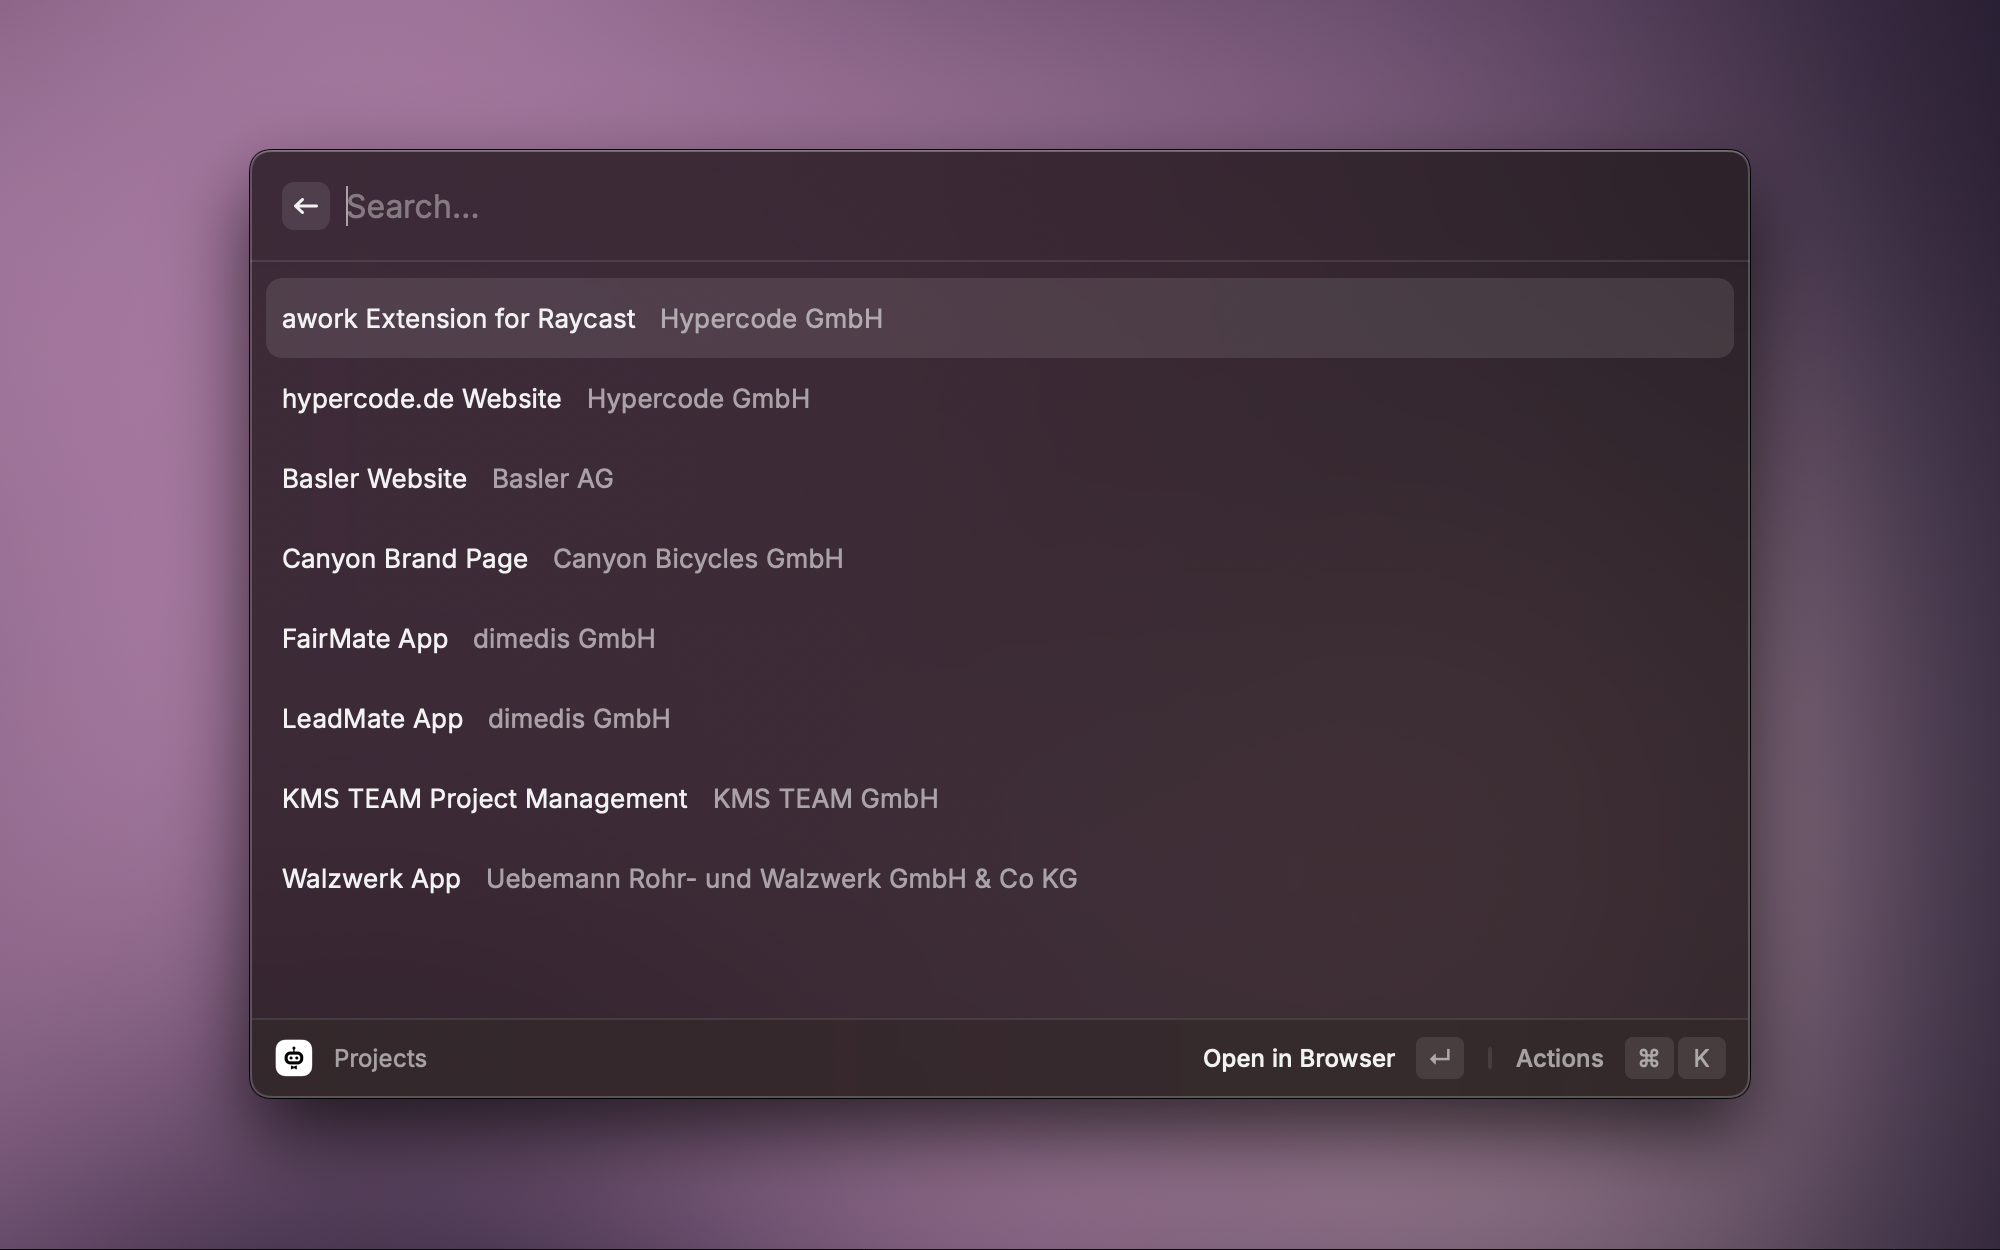
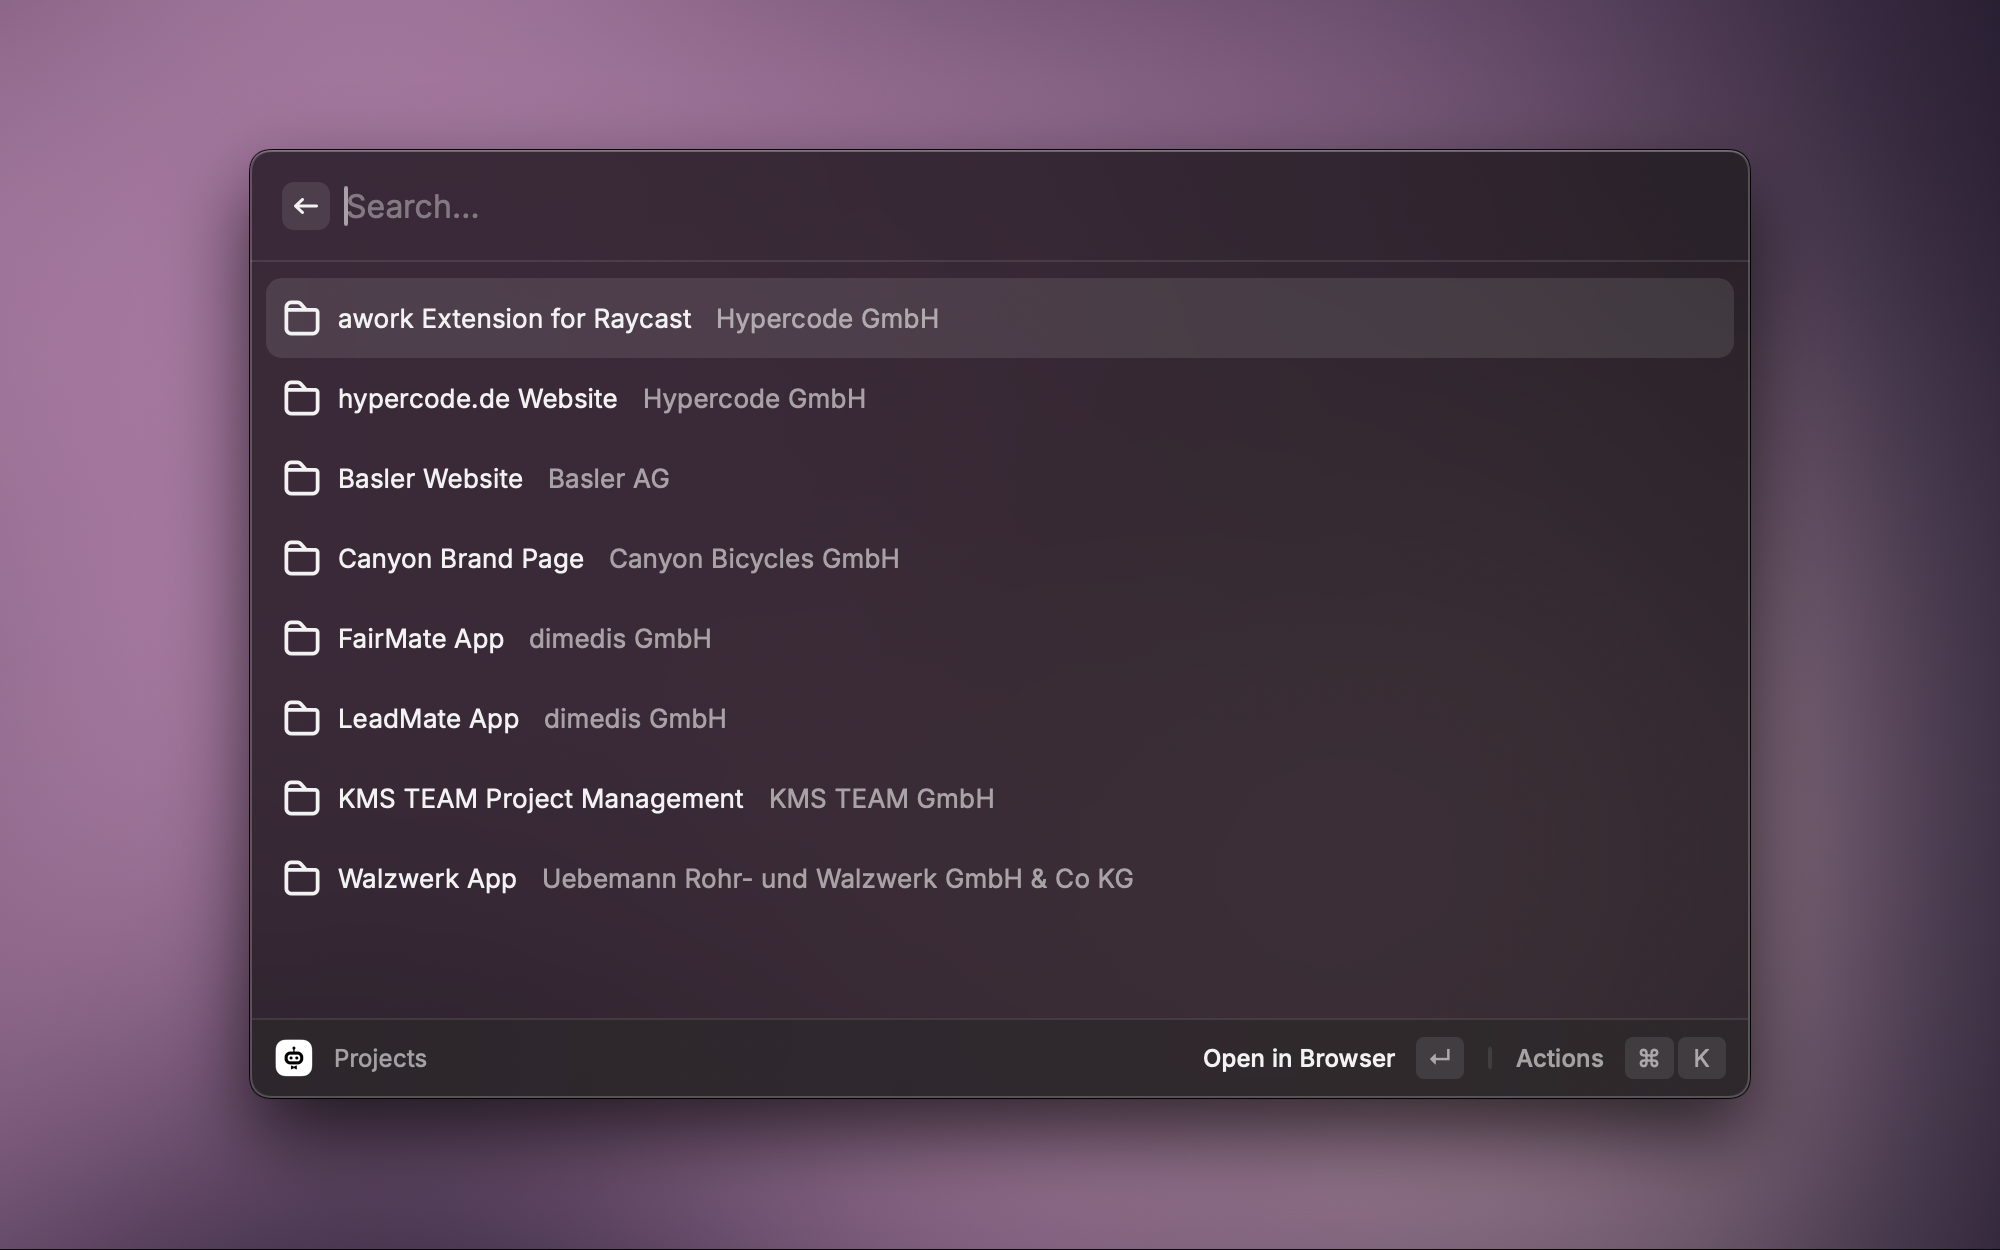
Implement feedback by xmok before release

diff --git a/src/tasks.tsx b/src/tasks.tsx
@@ -10,7 +10,7 @@ const Actions = (props: { taskId: string; projectId: string; typeOfWorkId: strin
   return (
     <ActionPanel>
       <Action.OpenInBrowser url={`${BaseUrl}/tasks/${props.taskId}`} />
-      <Action.CopyToClipboard content={`${BaseUrl}/tasks/${props.taskId}`} />
+      <Action.CopyToClipboard title={"Copy URL to Clipboard"} content={`${BaseUrl}/tasks/${props.taskId}`} />
       <Action.CopyToClipboard
         title={"Copy Task ID"} // eslint-disable-line
         content={props.taskId}
@@ -43,6 +43,7 @@ const Actions = (props: { taskId: string; projectId: string; typeOfWorkId: strin
 const TaskItem = (props: { task: task }) => {
   return (
     <List.Item
+      icon={Icon.Document}
       title={props.task.name}
       subtitle={props.task.project.name}
       keywords={[props.task.project.name, props.task.id]}
@@ -63,7 +64,7 @@ export default function Command(props: LaunchProps) {
     revalidate: updateTasks,
   } = useCachedPromise(getTasks, [searchText, 100, projectId], {
     onData: (data) => {
-      if ((!data || (data.length === 0 && !searchText)) && !authorizationInProgress) {
+      if (data.length === 0 && !searchText && !authorizationInProgress) {
         setTimeout(() => {
           console.log("Reloading tasks");
           updateTasks();
@@ -77,7 +78,7 @@ export default function Command(props: LaunchProps) {
     revalidate: updateProjects,
   } = useCachedPromise(getProjects, ["", 1000], {
     onData: (data) => {
-      if ((!data || data.length === 0) && !authorizationInProgress) {
+      if (data.length === 0 && !authorizationInProgress) {
         setTimeout(() => {
           console.log("Reloading projects");
           updateProjects();
@@ -110,8 +111,9 @@ export default function Command(props: LaunchProps) {
       }
     >
       {tasks &&
-        Array.isArray(tasks) &&
-        tasks.filter((value) => value.projectId === projectId).map((task) => <TaskItem key={task.id} task={task} />)}
+        tasks
+          .filter((task) => !projectId || task.projectId === projectId)
+          .map((task) => <TaskItem key={task.id} task={task} />)}
     </List>
   );
 }

diff --git a/src/projects.tsx b/src/projects.tsx
@@ -10,7 +10,7 @@ const Actions = (props: { projectID: string; isBillable: boolean }) => {
   return (
     <ActionPanel>
       <Action.OpenInBrowser url={`${BaseUrl}/projects/${props.projectID}`} />
-      <Action.CopyToClipboard content={`${BaseUrl}/projects/${props.projectID}`} />
+      <Action.CopyToClipboard title={"Copy URL to Clipboard"} content={`${BaseUrl}/projects/${props.projectID}`} />
       <Action.CopyToClipboard
         icon={Icon.Envelope}
         title="Copy Project Mail Address"
@@ -61,6 +61,7 @@ const Actions = (props: { projectID: string; isBillable: boolean }) => {
 const ProjectItem = (props: { project: project }) => {
   return (
     <List.Item
+      icon={Icon.Folder}
       title={props.project.name}
       subtitle={props.project.company?.name}
       actions={<Actions projectID={props.project.id} isBillable={props.project.isBillableByDefault} />}
@@ -87,9 +88,7 @@ export default function Command() {
 
   return (
     <List isLoading={isLoading} pagination={pagination} throttle onSearchTextChange={setSearchText}>
-      {projects &&
-        Array.isArray(projects) &&
-        projects.map((project) => <ProjectItem key={project.id} project={project} />)}
+      {projects && projects.map((project) => <ProjectItem key={project.id} project={project} />)}
     </List>
   );
 }

diff --git a/src/composables/WebClient.ts b/src/composables/WebClient.ts
@@ -1,4 +1,4 @@
-import { Alert, confirmAlert, getPreferenceValues, LocalStorage, OAuth, PreferenceValues } from "@raycast/api";
+import { Alert, confirmAlert, getPreferenceValues, LocalStorage, OAuth } from "@raycast/api";
 import { showFailureToast } from "@raycast/utils";
 import fetch, { RequestInit } from "node-fetch";
 
@@ -17,7 +17,7 @@ export const baseURI = "https://api.awork.com/api/v1";
 export let authorizationInProgress = false;
 export let revalidating = false;
 
-const preferences = getPreferenceValues<PreferenceValues>();
+const preferences = getPreferenceValues<Preferences>();
 
 export const client = new OAuth.PKCEClient({
   providerName: "awork",

diff --git a/src/logTime.tsx b/src/logTime.tsx
@@ -160,7 +160,6 @@ export default function Command(props: LaunchProps) {
     },
     validation: {
       projectId: (value) => {
-        setValidationError("projectId", undefined);
         if ((!value || value === "none") && values.taskId === "none") {
           return "Please select a project";
         }

diff --git a/README.md b/README.md
@@ -5,13 +5,13 @@ This is a Raycast extension with commands for the work management platform [awor
 
 ## Installation & Authorization
 
-To use this extension you need to add an API client to awork. You can add this under "Settings / Integrations / API clients" and you may need admin rights. However, the users of the extension will only be able to see/access the projects that they are individually allowed to see in your workspace.
+To use this extension you need to add an API client to awork. You can add this under "(Workspace) Settings / Integrations / API clients" and you may need admin rights. However, the users of the extension will only be able to see/access the projects that they are individually allowed to see in your workspace.
 
 Please enter something like:
 
 - Name: `awork Extension for Raycast`
 - Client ID: `raycast-awork-extension`
-- Redirect URI: `https://raycast.com/redirect?packageName=awork` (hit the "+")
+- Redirect URI: `https://raycast.com/redirect?packageName=Extension` (hit the "+")
 
 Then copy/save the generated new client secret.
 
